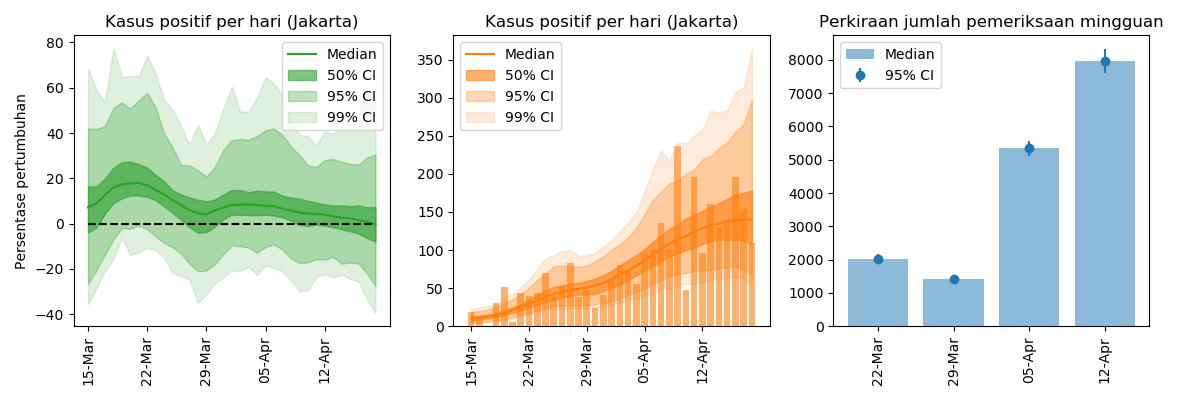
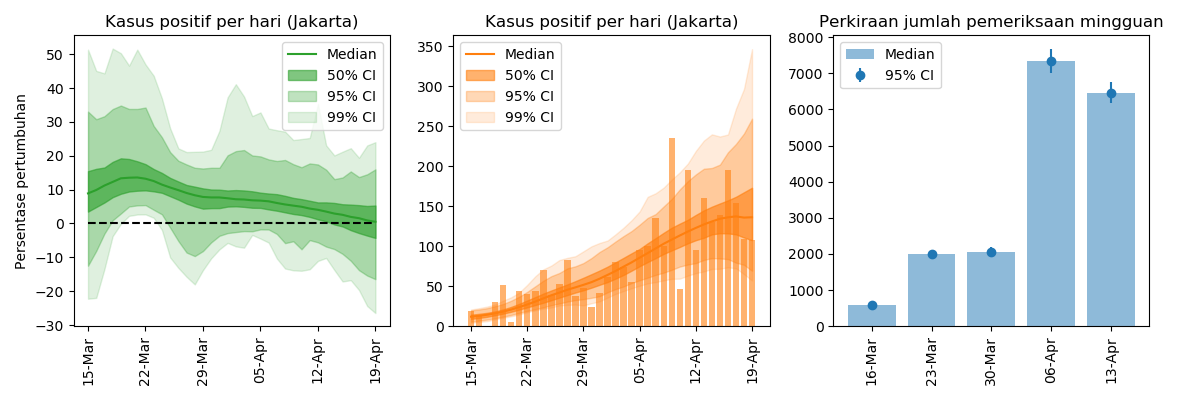
Daily update

diff --git a/idcovid19.md b/idcovid19.md
@@ -8,7 +8,7 @@ permalink: /idcovid19/
 ## Apakah kurva penyebaran telah turun?
 
 Sumber data: [KawalCOVID19](https://kawalcovid19.id/)<br/>
-Diperbarui pada: 18/04/2020<br/>
+Diperbarui pada: 19/04/2020<br/>
 Metode dapat dilihat di [sini]({{ site.baseurl }}/2020/04/17/COVID19-has-the-curve-flatten/)
 
 #### Indonesia
